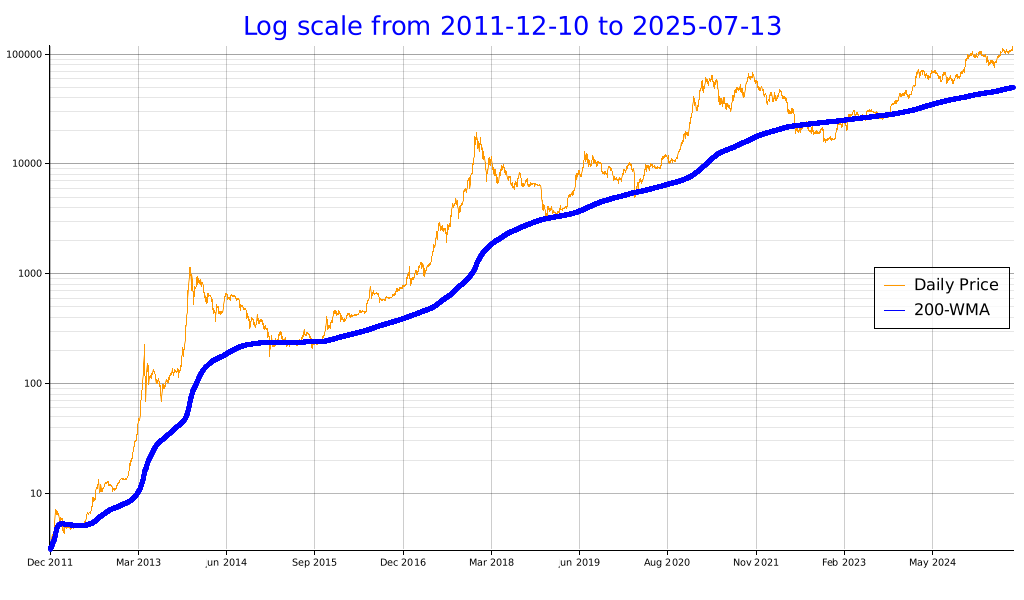
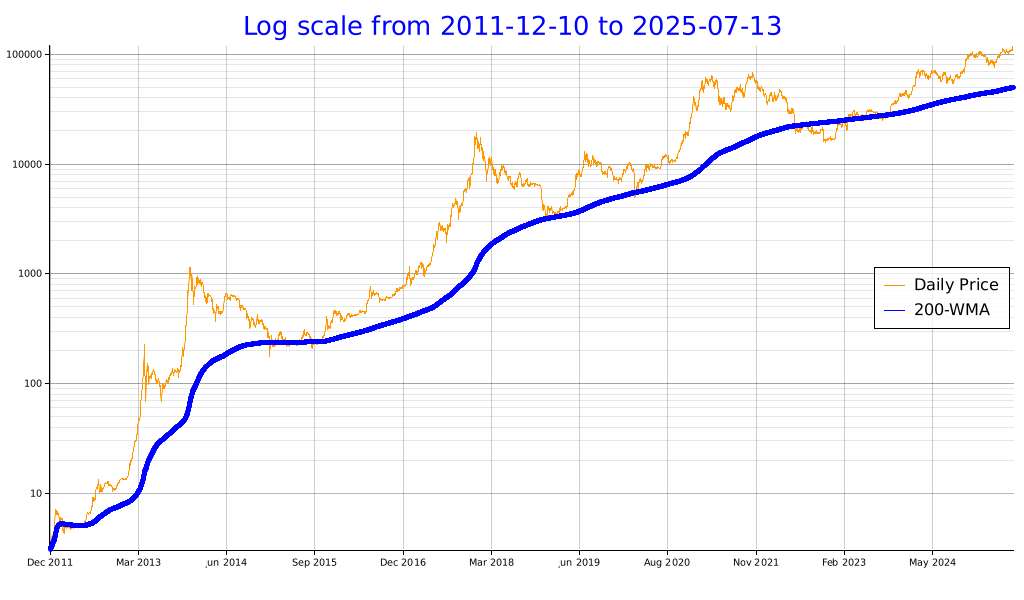
deploy: ef1aae1c814c8767504c8c7178d0ecc4b73ed917

Changed region(s): [[0.0, 0.27, 1.0, 0.33]]

diff --git a/index.html b/index.html
@@ -34,7 +34,7 @@
           <td>119,216.67</td>
           <td>74,436.67</td>
           <td></td>
-          <td>8,639,712,067,584.0</td>
+          <td>8,640,275,152,896.0</td>
         </tr>
         <tr>
           <td>2024</td>
@@ -219,7 +219,7 @@
     <br><br>
     <a href='https://github.com/bitcoin-tools/btracker'>Link to the report codebase</a>
     <br><br>
-    This report was last updated at 2025-07-13 17:19:54.794761390 UTC.
+    This report was last updated at 2025-07-13 17:44:43.454655547 UTC.
     <br><br>
     <div class='scrollable-table'>
       <table>
@@ -243,12 +243,12 @@
             <td>117,453.85</td>
             <td>119,216.67</td>
             <td>117,277.13</td>
-            <td>118,629.85</td>
-            <td class='wma-column'>49,817.37</td>
-            <td>51.83 (0.10 %)</td>
-            <td>72,566.57 (157.5 %)</td>
+            <td>118,808.75</td>
+            <td class='wma-column'>49,817.50</td>
+            <td>51.96 (0.10 %)</td>
+            <td>72,745.48 (157.9 %)</td>
             <td>1,939.53 (1.6 %)</td>
-            <td>1,194.62 (1.0 %)</td>
+            <td>1,373.52 (1.1 %)</td>
           </tr>
           <tr>
             <td>2025-07-12</td>
